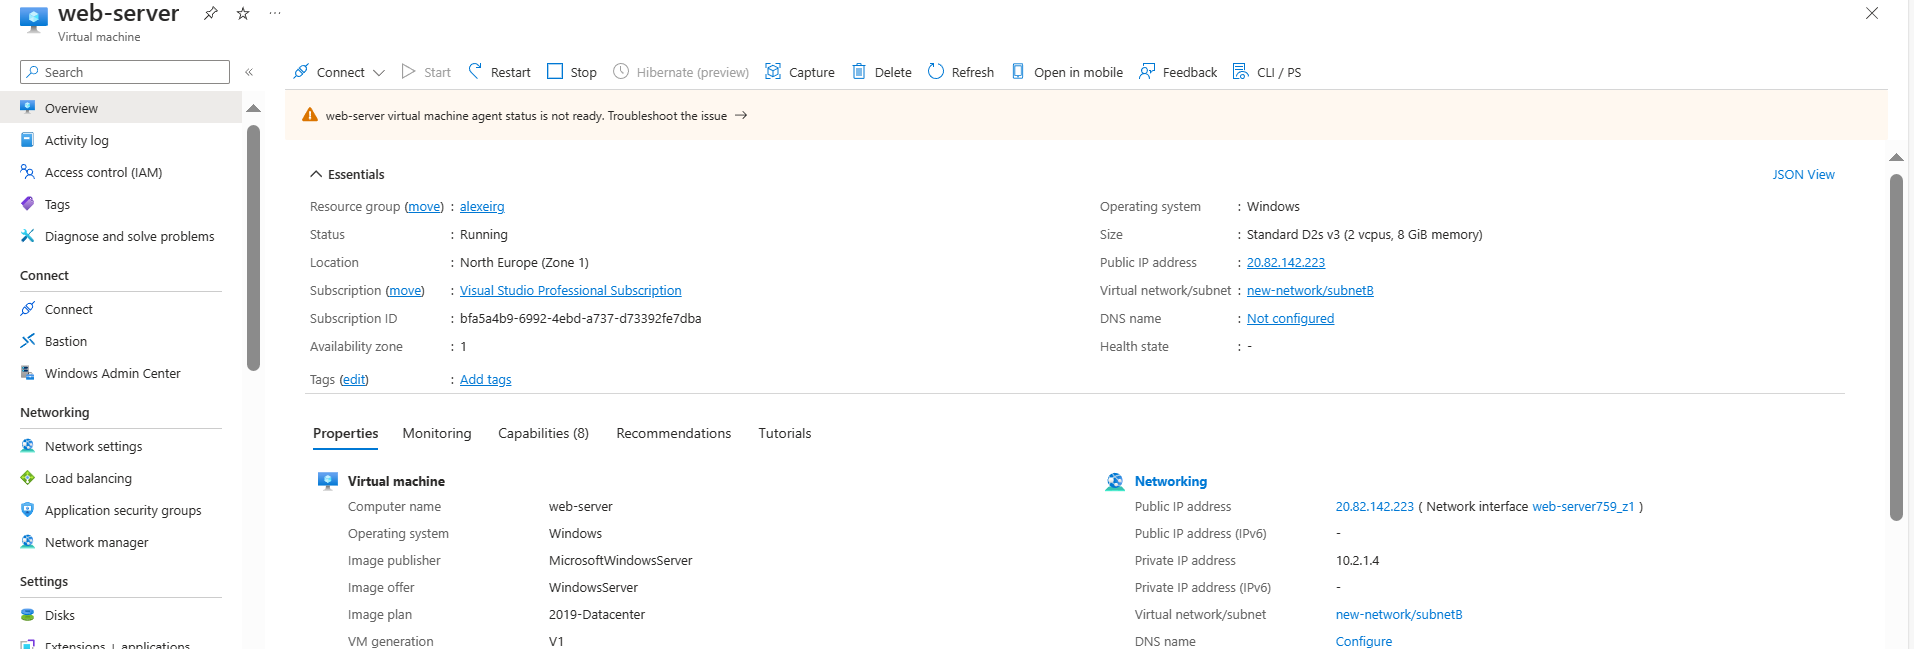
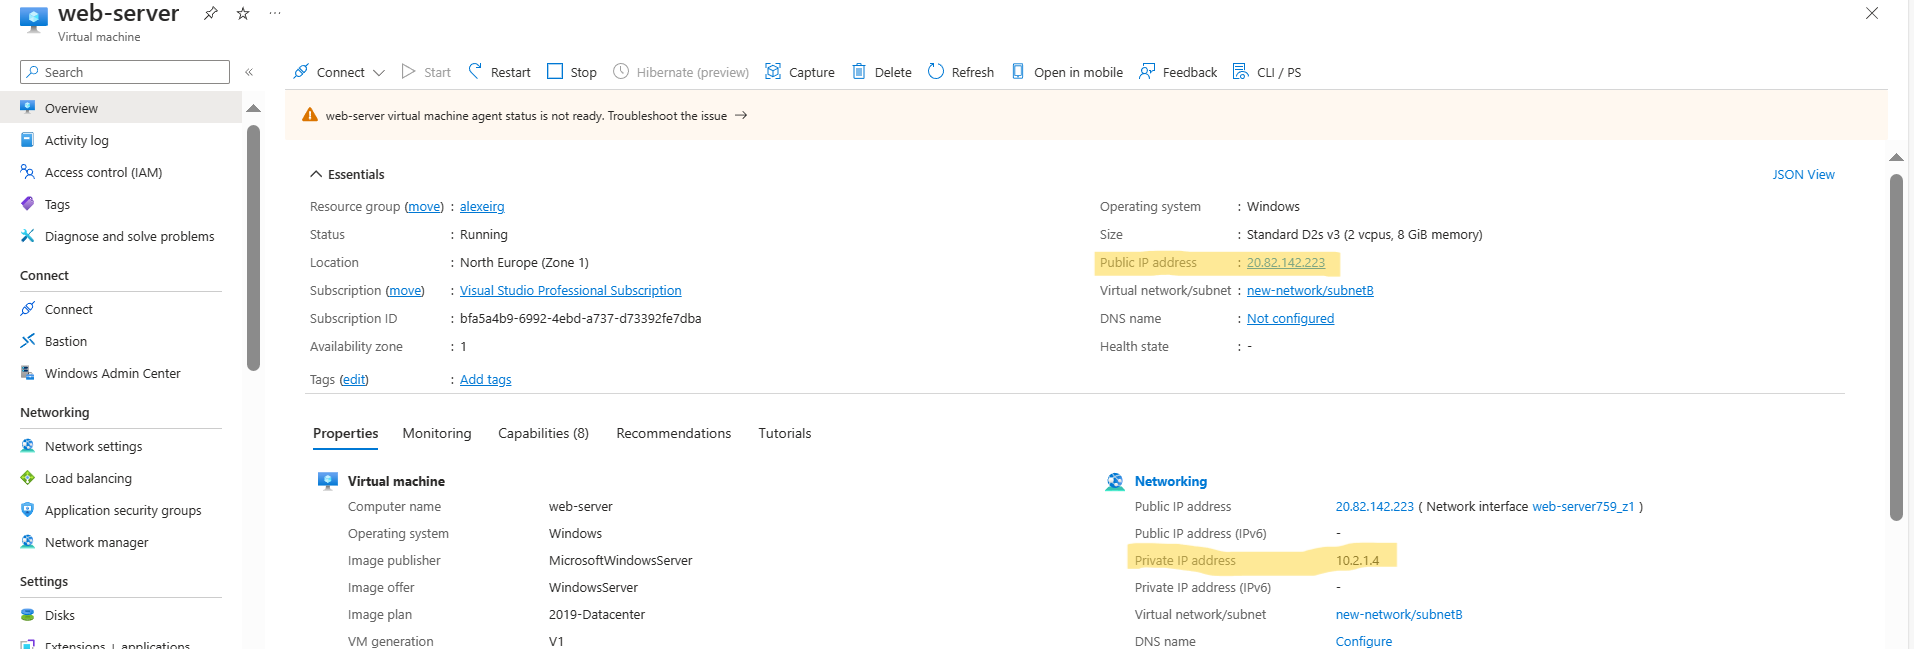
setting up the web server

Changed region(s): [[0.5857, 0.832, 0.7398, 0.8937], [0.5549, 0.3698, 0.709, 0.4314]]

diff --git a/README.md b/README.md
@@ -72,3 +72,26 @@ The purpose is to be able to browse IIS in *stagingvm* from *testvm* via its pri
 
 - create *web-server* inside *new-network/subnetB*. Install *IIS*.
 <img src="/pictures/webserver.png" title="web server"  width="1000">
+
+- from *dns-server*, reach the site hosted in *web-server* using its private IP address
+<img src="/pictures/webserver1.png" title="web server"  width="1000">
+
+#### Using the DNS Server
+
+- in *new-network*, use custom DNS Server. User *dns-server* private IP
+<img src="/pictures/dnsserver.png" title="dns server"  width="1000">
+
+- in *dns-server*, go to tools
+<img src="/pictures/dnsserver1.png" title="dns server"  width="1000">
+
+- in *dns-server*, create a new host. Use private IP of *web-server*
+<img src="/pictures/dnsserver4.png" title="dns server"  width="1000">
+
+- in *dns-server*, use the FQDN *web-server.alexei.privatedomain* to connect to the site
+<img src="/pictures/dnsserver5.png" title="dns server"  width="1000">
+
+#### Azure Private DNS 
+
+- in *new-network*, use custom DNS Server. User *dns-server* private IP
+<img src="/pictures/dnsserver.png" title="dns server"  width="1000">
+
